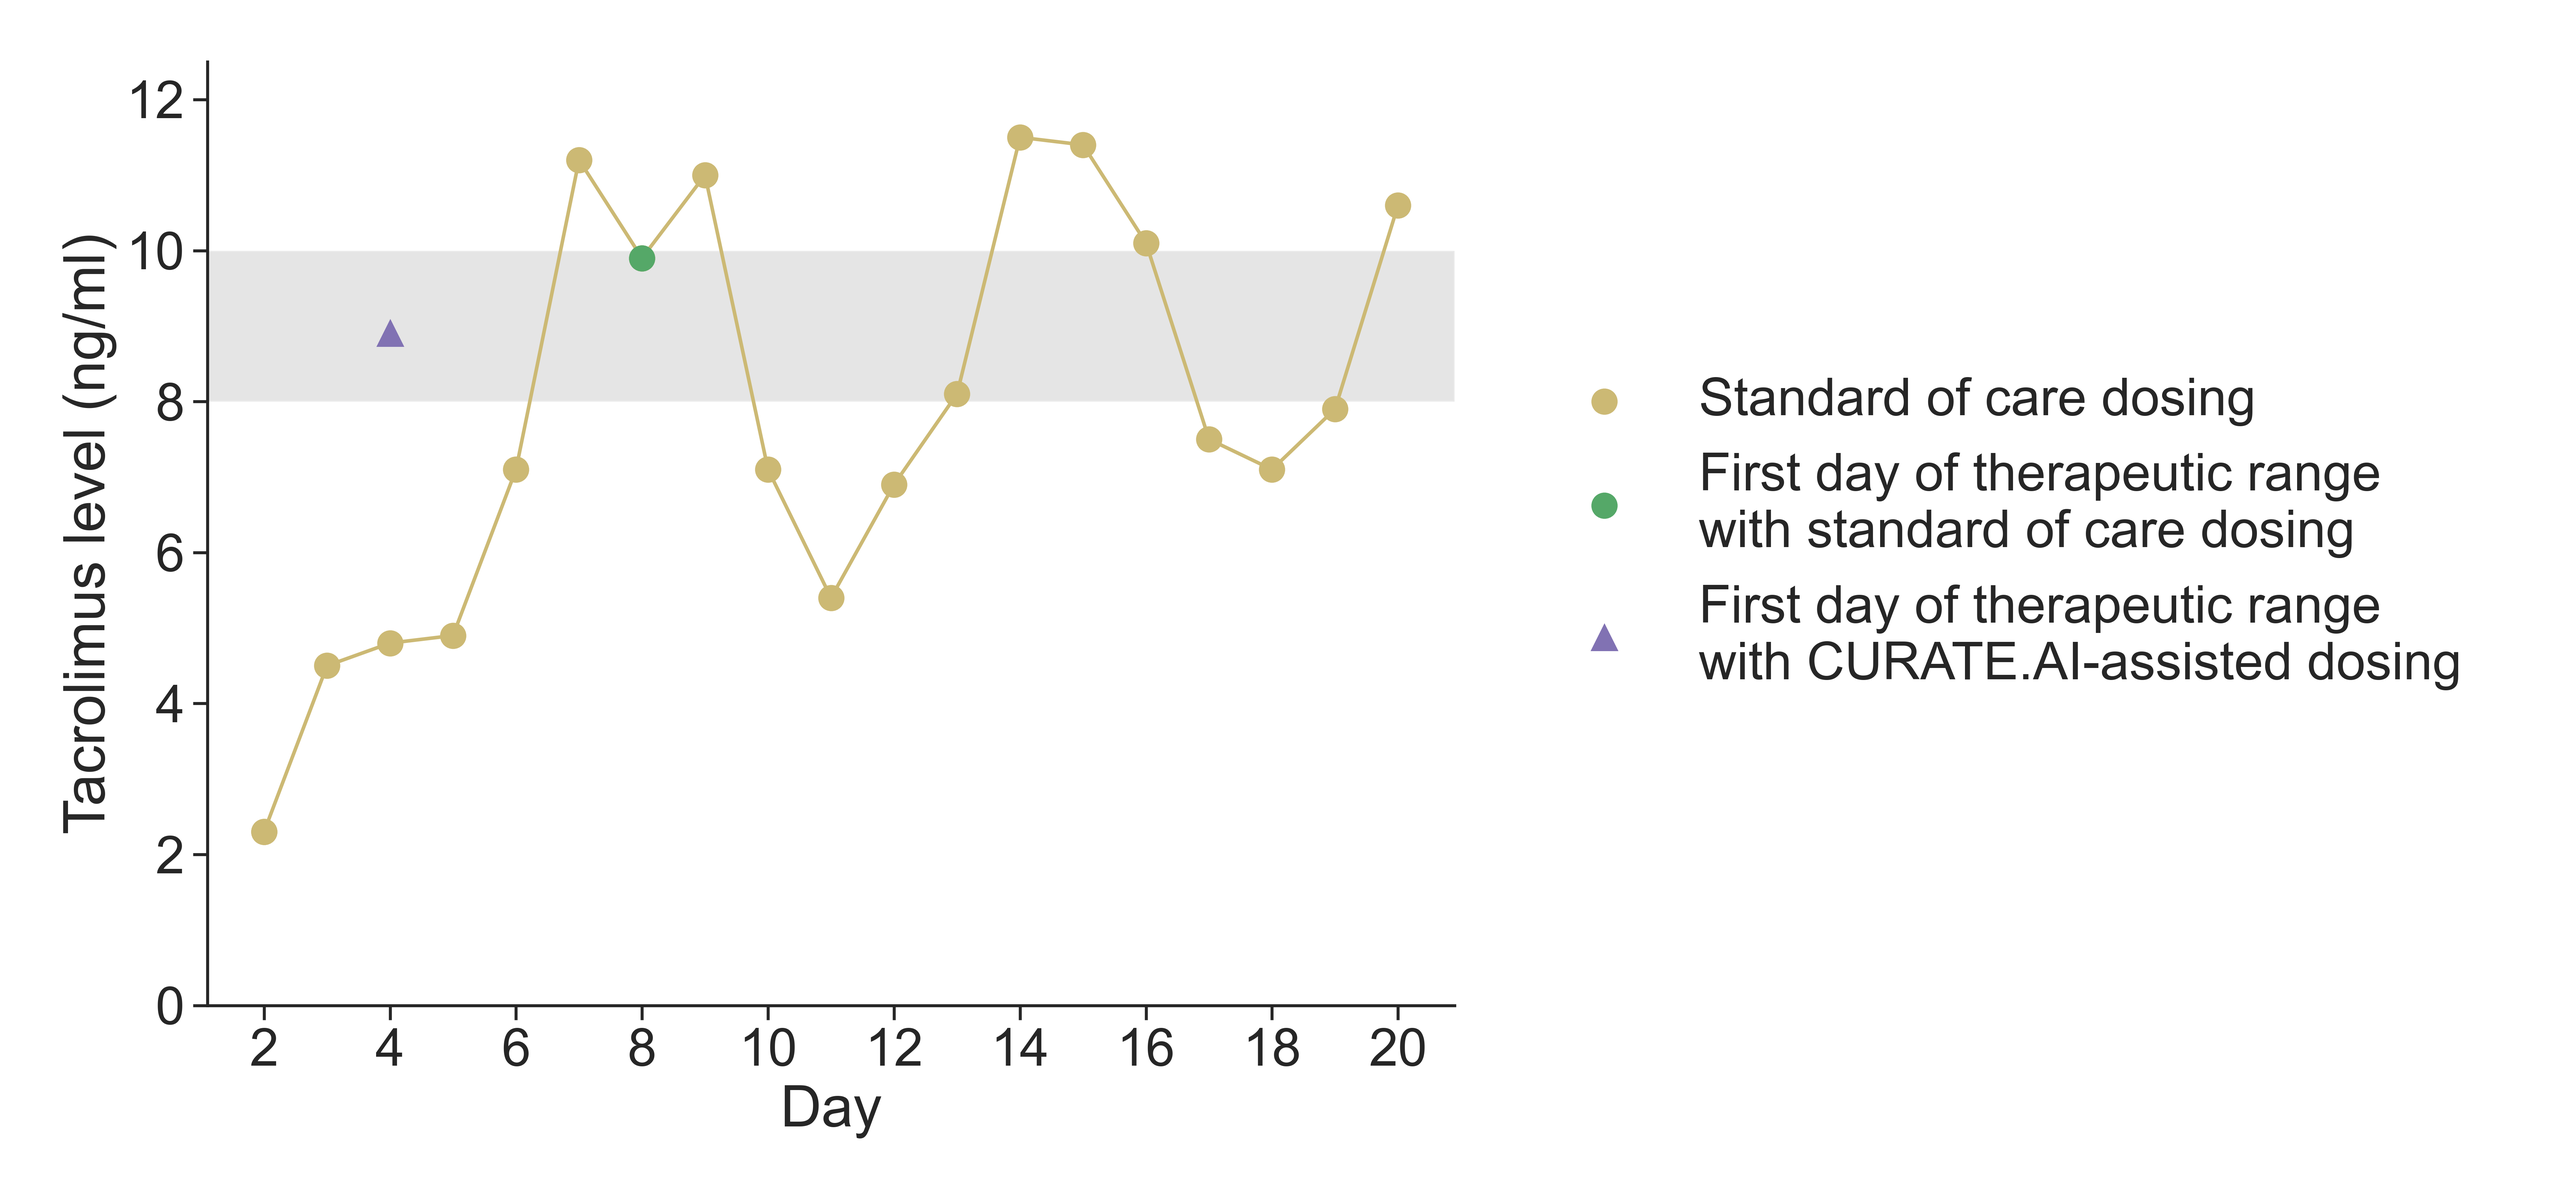
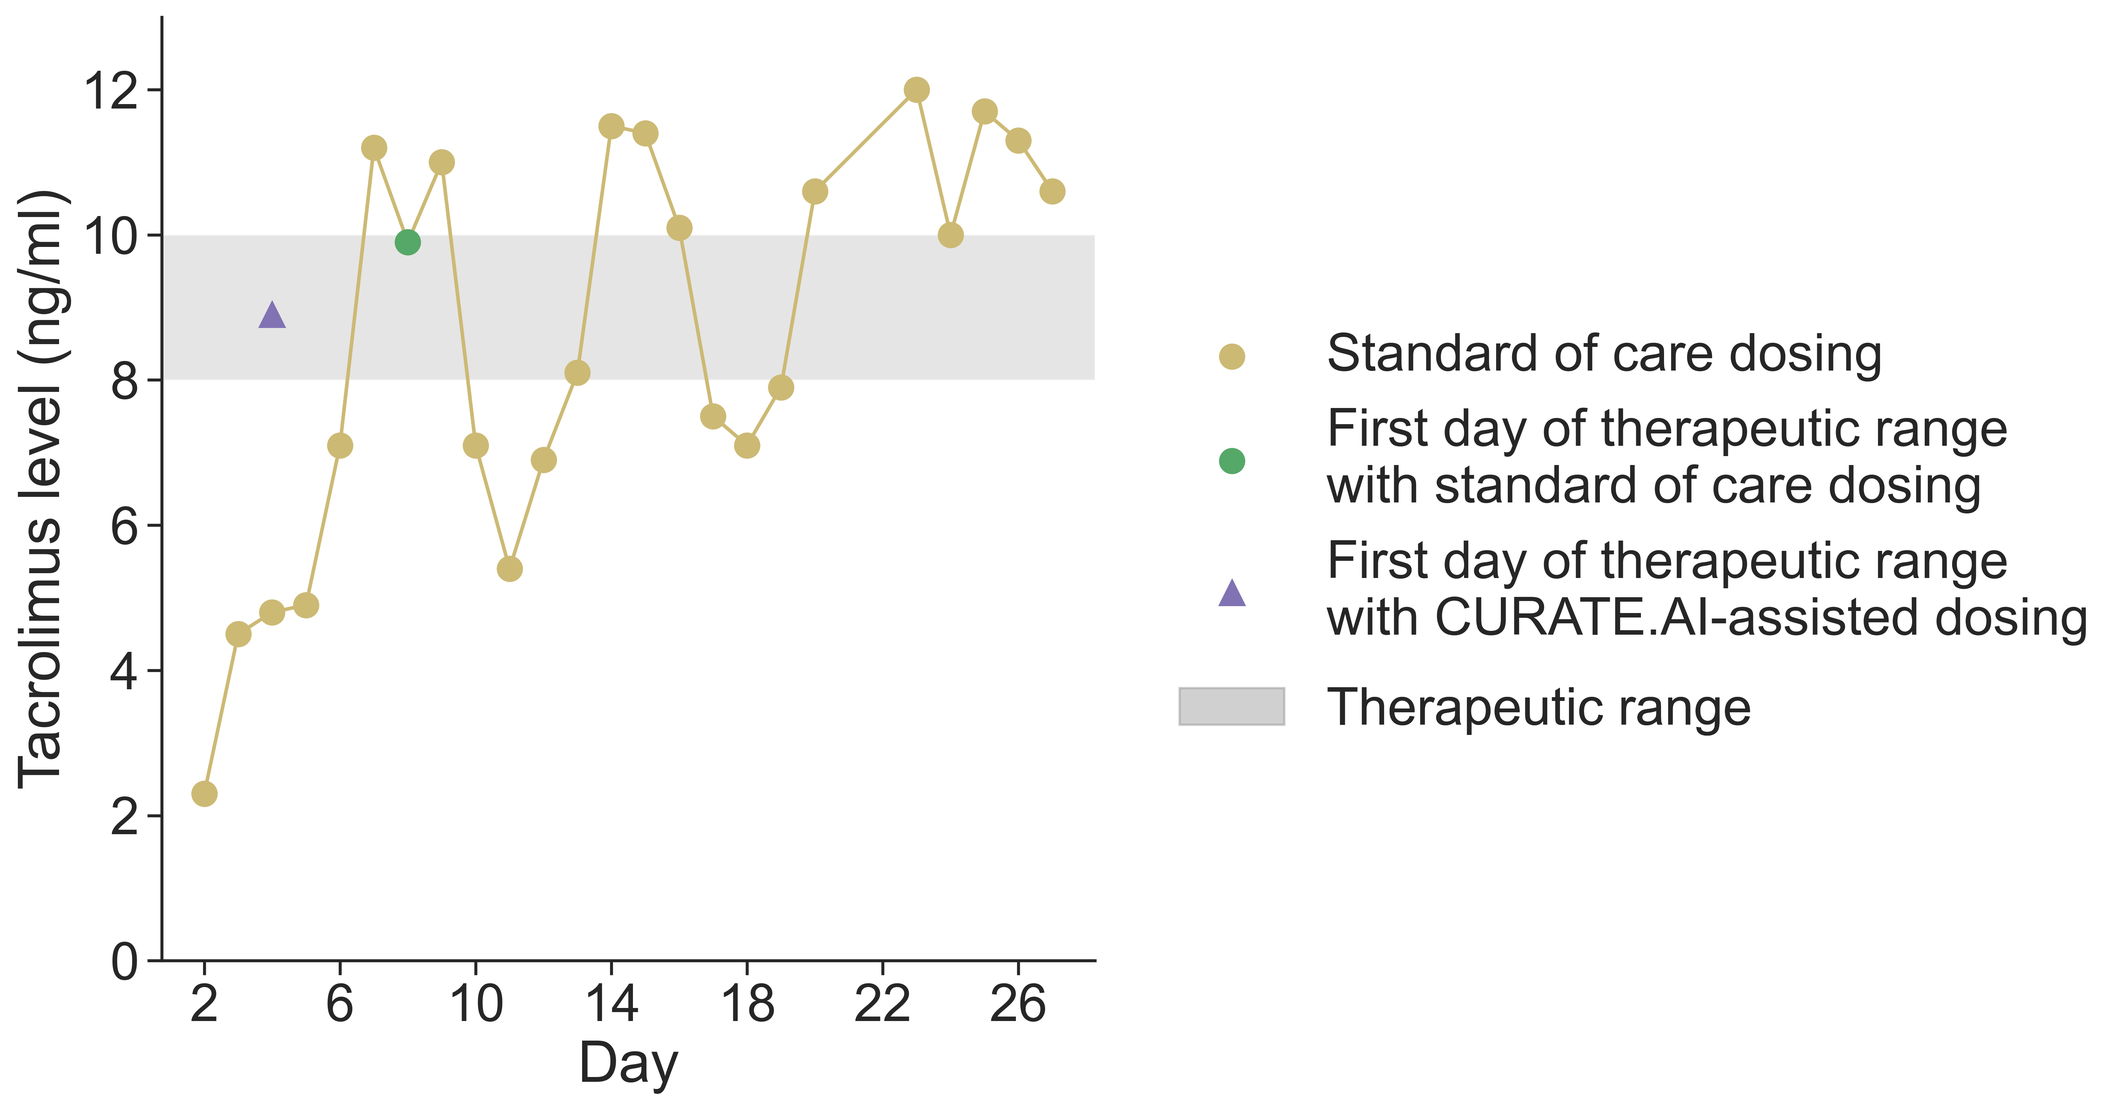
Edit case series for 120 to use data including non-ideal days from raw simplified data file.

diff --git a/plotting.py b/plotting.py
@@ -1221,19 +1221,35 @@ def case_series_120_response_vs_day():
     Scatter and line plot of patient 120 of response vs day,
     with first day to achieve therapeutic range, for SOC and CURATE.AI-assisted dosing
     """
-    clean_dat = pd.read_excel('output (with pop tau by LOOCV).xlsx', sheet_name='clean')
+    # clean_dat = pd.read_excel('output (with pop tau by LOOCV).xlsx', sheet_name='clean')
+    clean_dat = pd.read_excel('Retrospective Liver Transplant Data_simplified.xlsx', sheet_name='120')
+    clean_dat = clean_dat.rename(columns={'Tac level (prior to am dose)':'response', 'Eff 24h Tac Dose':'dose', 'Day #':'day'})
+    clean_dat['response'] = clean_dat['response'].shift(-1)
+    clean_dat = clean_dat[clean_dat['response'].notna()]
+
+    # Shift dose one unit up, fill NaN with 0mg, reset index
+    clean_dat['dose'] = clean_dat['dose'][:-2]
+    clean_dat['dose'] = clean_dat['dose'].fillna('0mg')
+    clean_dat = clean_dat.reset_index(drop=True)
+
+    # Remove 'mg'
+    for i in range(len(clean_dat)):
+        size = len(clean_dat.dose[i])
+        clean_dat.dose[i] = clean_dat.dose[i][:size - 2]
+
     dat_original, combined_df = case_series_120()
 
     # Subset patient 120
     # clean_dat = clean_dat[(clean_dat.patient==120) & (clean_dat.day >= 2) & (clean_dat.day <= 4)].reset_index(drop=True)
-    clean_dat = clean_dat[(clean_dat.patient==120)].reset_index(drop=True)
+    # clean_dat = clean_dat[(clean_dat.patient==120)].reset_index(drop=True)
 
     predicted_response = (dat_original.loc[0, 'coeff_1x'] * 2) + (dat_original.loc[0, 'coeff_0x'])
     predicted_dose = 2
 
     # Plot
+    fig, axes = plt.subplots(figsize=(7,7))
     sns.set(style='white', font_scale=2,
-           rc={"figure.figsize":(15,7), "xtick.bottom":True, "ytick.left":True})
+           rc={"xtick.bottom":True, "ytick.left":True})
 
     plt.plot(clean_dat.day, clean_dat.response, 'yo', linestyle='-', ms=10)
     plt.scatter(x=clean_dat.day[0], y=clean_dat.response[0], color='y', s=100, label='Standard of care dosing')
@@ -1244,18 +1260,25 @@ def case_series_120_response_vs_day():
     plt.ylim(0,max(clean_dat.response+1))
 
     sns.despine()
-    plt.xticks(np.arange(2,21,step=2))
+    plt.xticks(np.arange(2,max(clean_dat.day),step=4))
     plt.xlabel('Day')
     plt.ylabel('Tacrolimus level (ng/ml)')
     plt.axhspan(8, 10, facecolor='grey', alpha=0.2)
 
     handles, labels = plt.gca().get_legend_handles_labels()
     order = [2,1,0]
-    plt.legend([handles[idx] for idx in order],[labels[idx] for idx in order],
+    legend1 = plt.legend([handles[idx] for idx in order],[labels[idx] for idx in order],
               bbox_to_anchor=(1.04,0.5), loc='center left', frameon=False) 
 
+    legend_elements = [Patch(facecolor='grey', edgecolor='grey',
+                            label='Therapeutic range', alpha=.2)]
+    legend2 = plt.legend(handles=legend_elements, bbox_to_anchor=(1.04,0.34), loc='upper left', frameon=False)
+
+    axes.add_artist(legend1)
+    axes.add_artist(legend2)    
+
     plt.tight_layout()
-    plt.savefig('patient_120_first_day.png',dpi=500)
+    plt.savefig('patient_120_first_day.png',dpi=500, bbox_inches='tight')
     
     return clean_dat
 
